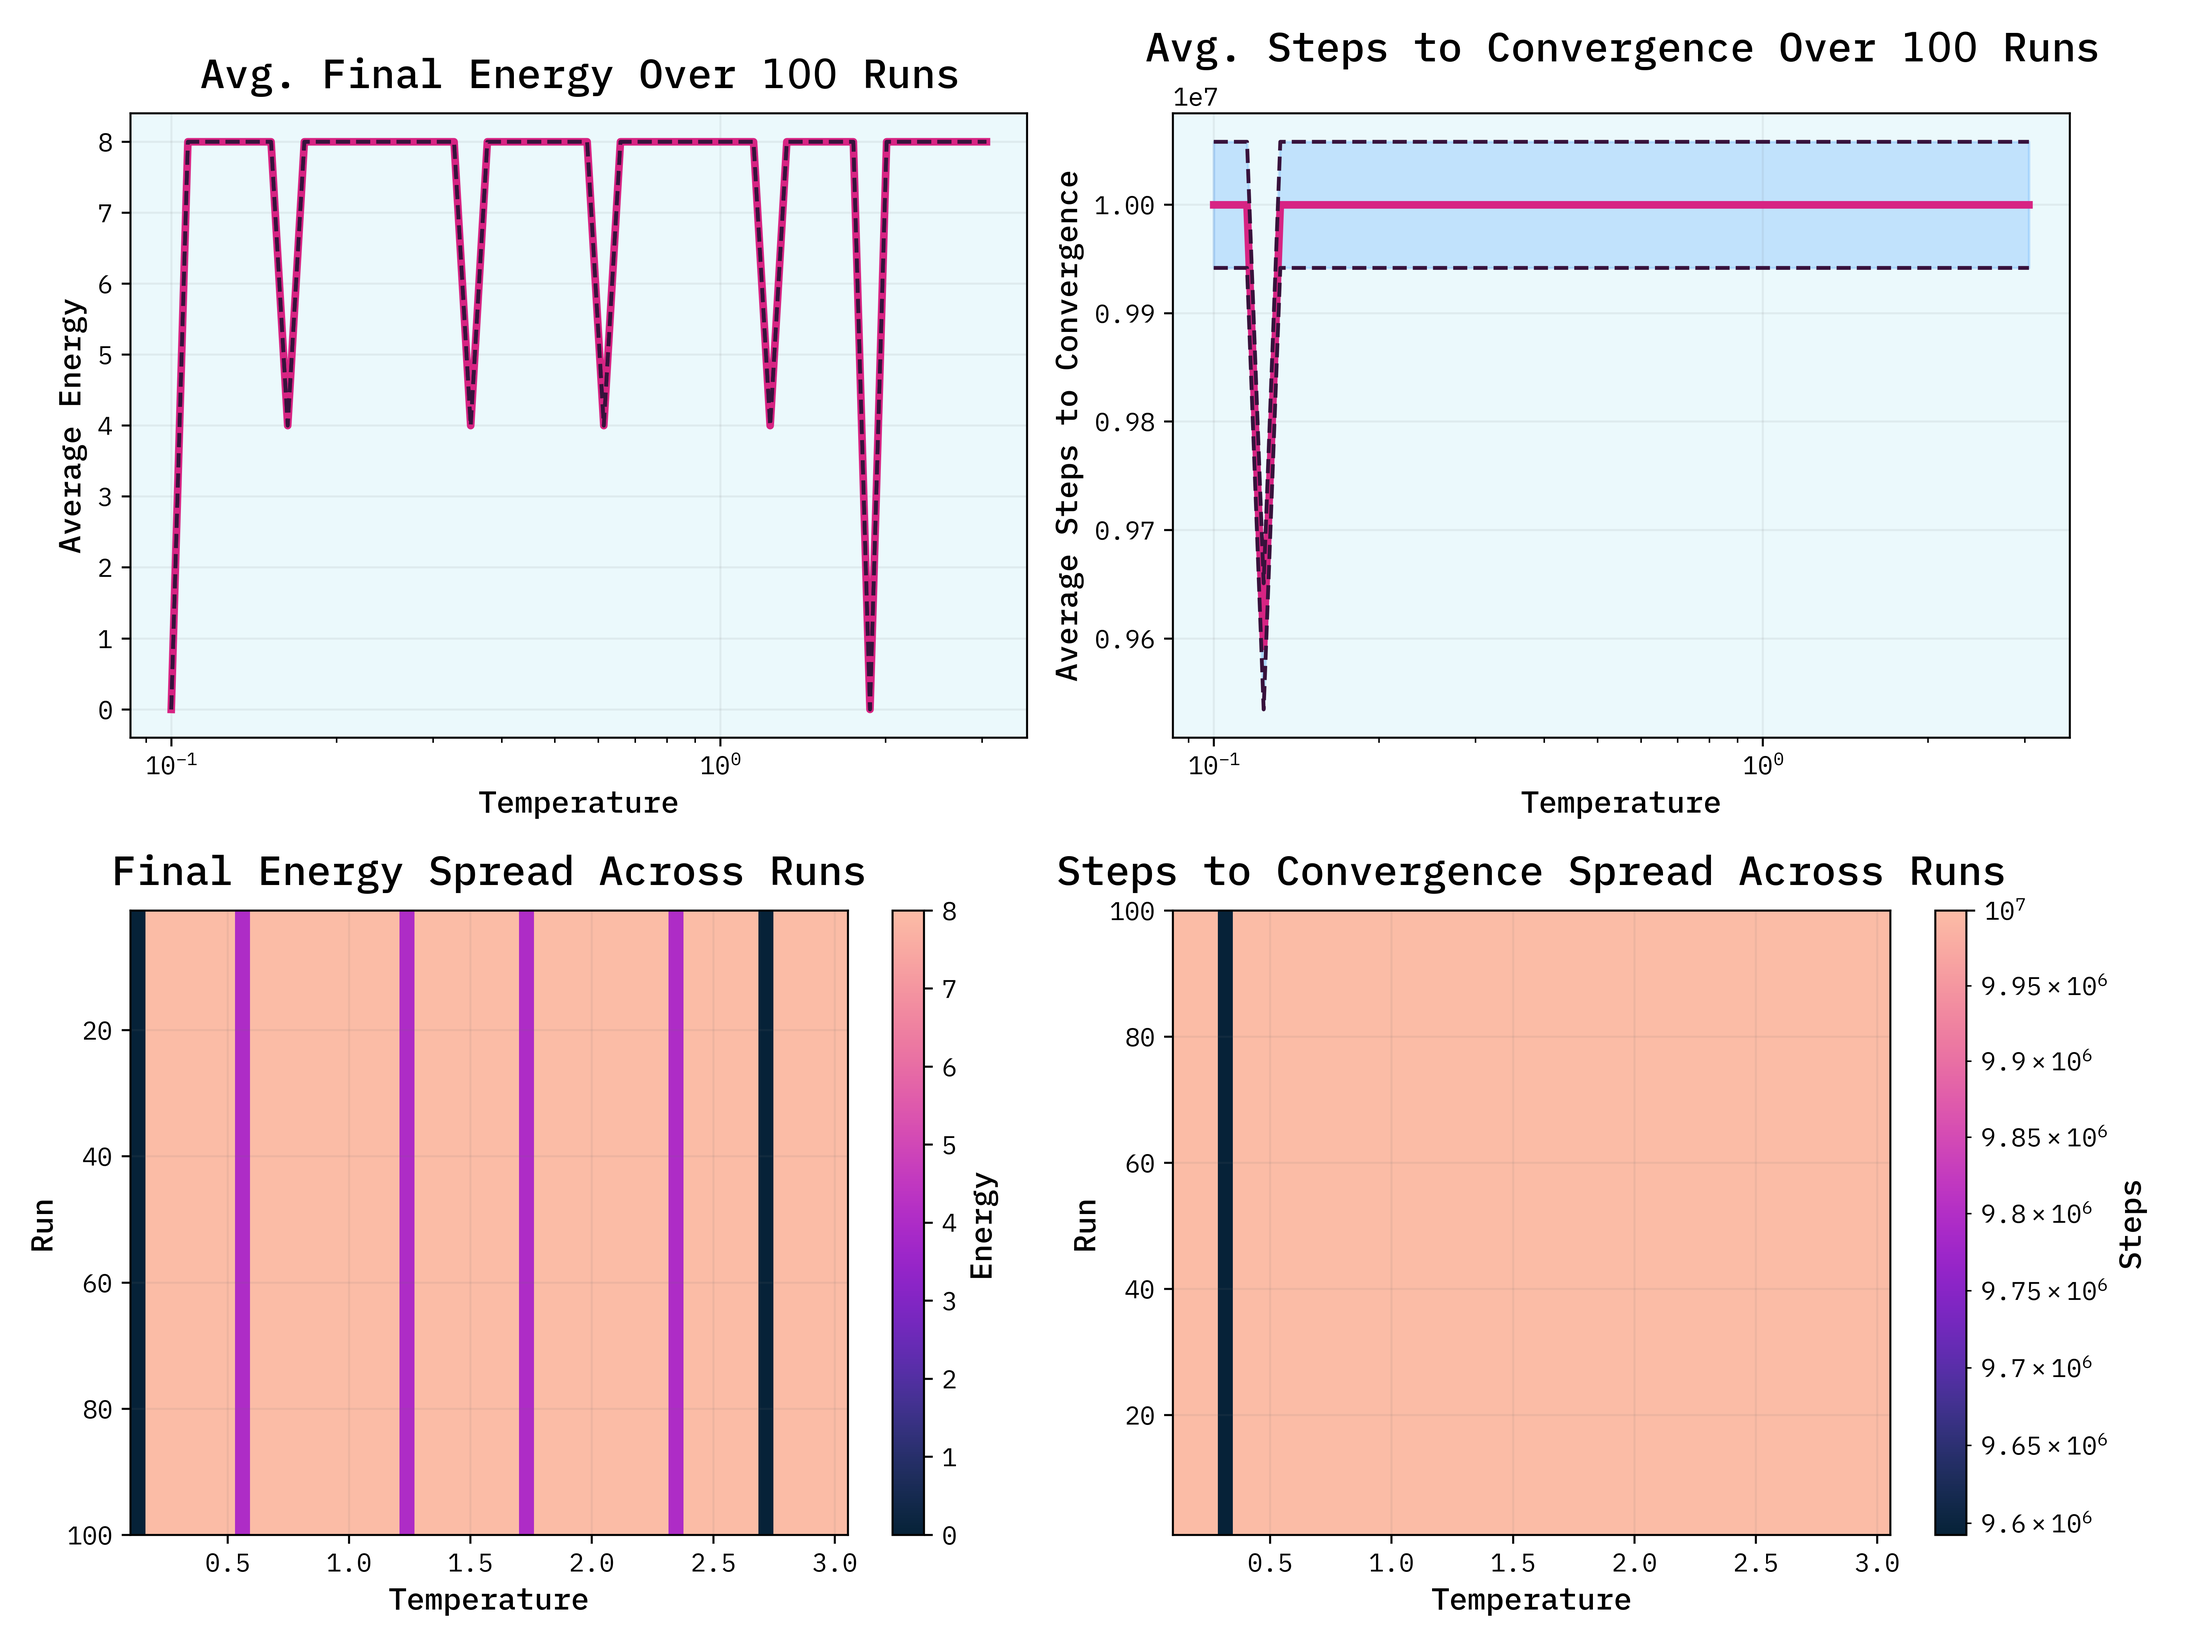
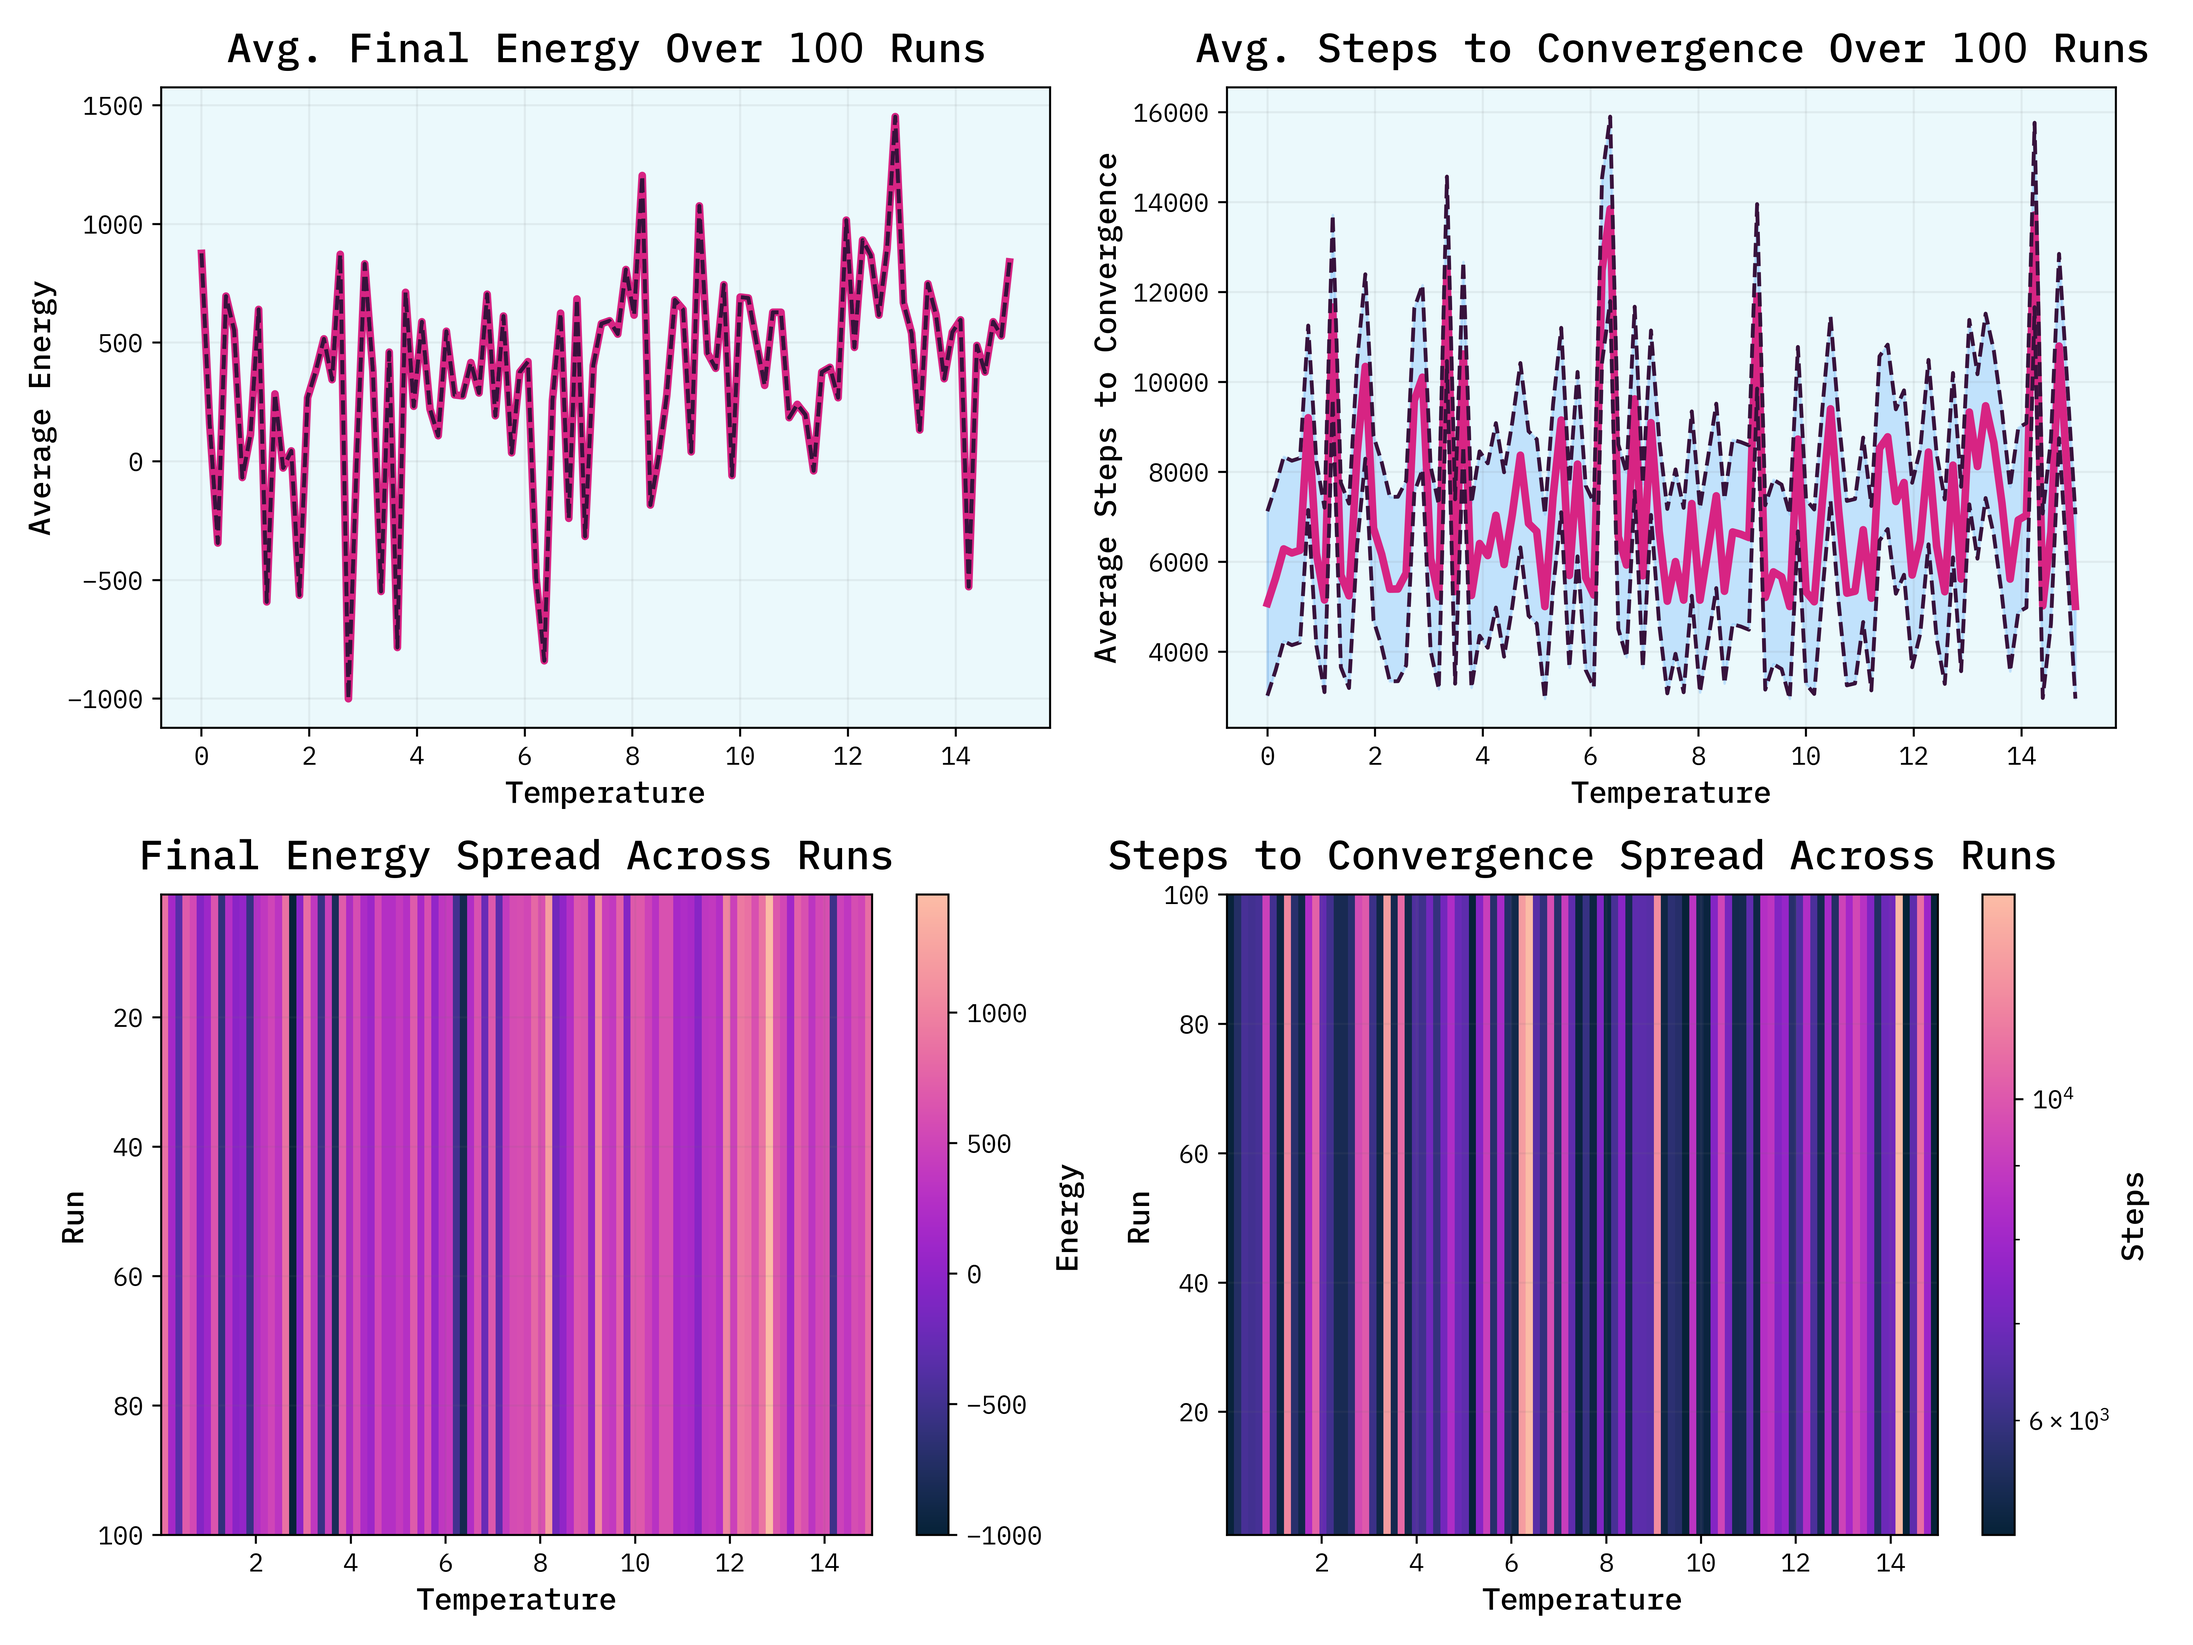
feat: :zap: ready up for new data collection

diff --git a/IsingModel/Code/run-avgE-T.py b/IsingModel/Code/run-avgE-T.py
@@ -10,46 +10,51 @@ import h5py
 class Worker:
     def __init__(self,
                  temperature: float,
+                 run: int,
                  ):
         self.T = temperature
+        self.run = run
     
     def process(self):
-        dim = (500, 500)
+        dim = (50, 50)
         m = Metropolis2(dim, self.T)
         # Contrary to the silly name I chose this is not a random state, but a fixed one
         # The fixed state was created randomly in the create-fixed-init.py script, hence the name
         m.state = np.load("./IsingModel/Results/random-state.npy")
-        m.MAX_ITER = 1e7
+        m.MAX_ITER = 1e5
         m.quiet = True
-        print(f"[INFO] Starting: T={self.T}")
+        print(f"[INFO] Starting: T={self.T}\tRun={self.run}")
         s_init, s_final, en = m.run()
 
-        return s_init, s_final, en, m.temperatures
+        return self.run, s_init, s_final, en, m.temperatures
     
 # Create function that'll get the workders to work
 def worker_task(params):
     worker = Worker(*params)
     return worker.process()
     
-# Get Thread Pool parameter list
+# Get Process Pool parameter list
+runs = 100
 param_list = np.genfromtxt("./IsingModel/Code/T_range.lst")
-param_list = [[par] for par in param_list]
+param_list = [[par, i] for par in param_list for i in range(runs)]
+
 
 # Run process pool and save on thread execution
-with concurrent.futures.ProcessPoolExecutor() as executor:
+with concurrent.futures.ProcessPoolExecutor(max_workers=16) as executor:
     futures = [executor.submit(worker_task, params) for params in param_list]
     
     # Step 4: Collect the results
     for future in concurrent.futures.as_completed(futures):
-        s_init, s_final, en, temps = future.result()
+        run, s_init, s_final, en, temps = future.result()
         arg1 = temps[0]
-        
-        save_path = "./IsingModel/Results/avgE-vs-T-pool.h5"
-        print(f"Storing run {arg1} to '{save_path}'..")
+        arg2 = run
+        save_path = "./IsingModel/Results/avgE-vs-T-fixedscale.h5"
+        print(f"Storing run {arg1},{arg2} to '{save_path}'..")
 
         with h5py.File(save_path, "a") as f:
-            group = f.create_group(f"{arg1}")
-            dset_state = group.create_dataset(f"state-{arg1}", data=s_final)
-            dset_en = group.create_dataset(f"energy-{arg1}", data=en)
-            dset_t = group.create_dataset(f"temperature-{arg1}", data=temps)
+            key = f"{arg1}-{arg2}"
+            group = f.create_group(f"{key}")
+            dset_state = group.create_dataset(f"state-{key}", data=s_final)
+            dset_en = group.create_dataset(f"energy-{key}", data=en)
+            dset_t = group.create_dataset(f"temperature-{key}", data=temps)
         print(f"Saved!")

diff --git a/IsingModel/Code/avgE-T-plot.py b/IsingModel/Code/avgE-T-plot.py
@@ -13,7 +13,7 @@ plt.style.use('./ma-style.mplstyle')
 mpl.use("qtagg")
 
 # Simulation parameters
-save_path = "./IsingModel/Results/avgE-vs-T-pool.h5"
+save_path = "./IsingModel/Results/avgE-vs-T-v2.h5"
 bounds = (-18, 0)
 length = 17
 temperature = 1
@@ -78,7 +78,6 @@ ax[0, 0].plot(T_values, avg_energy + sigma_energy, color=colors[0], alpha=1, ls=
 ax[0, 0].fill_between(T_values, avg_energy - sigma_energy, avg_energy + sigma_energy, color=colors[3], alpha=0.3)
 
 
-ax[0, 0].set_xscale("log")
 ax[0, 0].set_ylabel("Average Energy")
 ax[0, 0].set_xlabel("Temperature")
 ax[0, 0].set_title(r"Avg. Final Energy Over $100$ Runs")
@@ -90,7 +89,6 @@ ax[0, 1].plot(T_values, avg_steps - sigma_steps, color=colors[0], alpha=1, ls="-
 ax[0, 1].plot(T_values, avg_steps + sigma_steps, color=colors[0], alpha=1, ls="--")
 ax[0, 1].fill_between(T_values, avg_steps - sigma_steps, avg_steps + sigma_steps, color=colors[3], alpha=0.3)
 
-ax[0, 1].set_xscale("log")
 ax[0, 1].set_ylabel("Average Steps to Convergence")
 ax[0, 1].set_xlabel("Temperature")
 ax[0, 1].set_title(r"Avg. Steps to Convergence Over $100$ Runs")

diff --git a/MolecularChain2/Code/par-lst-gen.py b/MolecularChain2/Code/par-lst-gen.py
@@ -1,9 +1,9 @@
 import numpy as np
 
 # sequence = np.logspace(np.log10(1e-14), np.log10(1e-4), num=10, endpoint=True)
-# sequence = np.linspace(1e-14, 1e-4, num=100, endpoint=True)
-sequence = np.arange(1, 11, 1)
+sequence = np.linspace(1e-4, 15, num=100, endpoint=True)
+# sequence = np.arange(1, 11, 1)
 
-with open('/home/pengu5055/Documents/FMF1mag/mod108/MolecularChain2/Code/DELTA_range.lst', 'w') as file:
+with open('/home/pengu5055/Documents/FMF1mag/mod108/IsingModel/Code/T_range.lst', 'w') as file:
     for number in sequence:
         file.write(f'{number}\n')

diff --git a/IsingModel/Code/test.py b/IsingModel/Code/test.py
@@ -14,7 +14,7 @@ kB = 1.38e-23
 dim = 50
 m = Metropolis2((dim, dim), 1)
 m.EPS = 100
-m.temperature = 1
+m.temperature = 8
 m.J = 1
 m.MAX_ITER = 100000
 s_init, s_final, energies = m.run()
